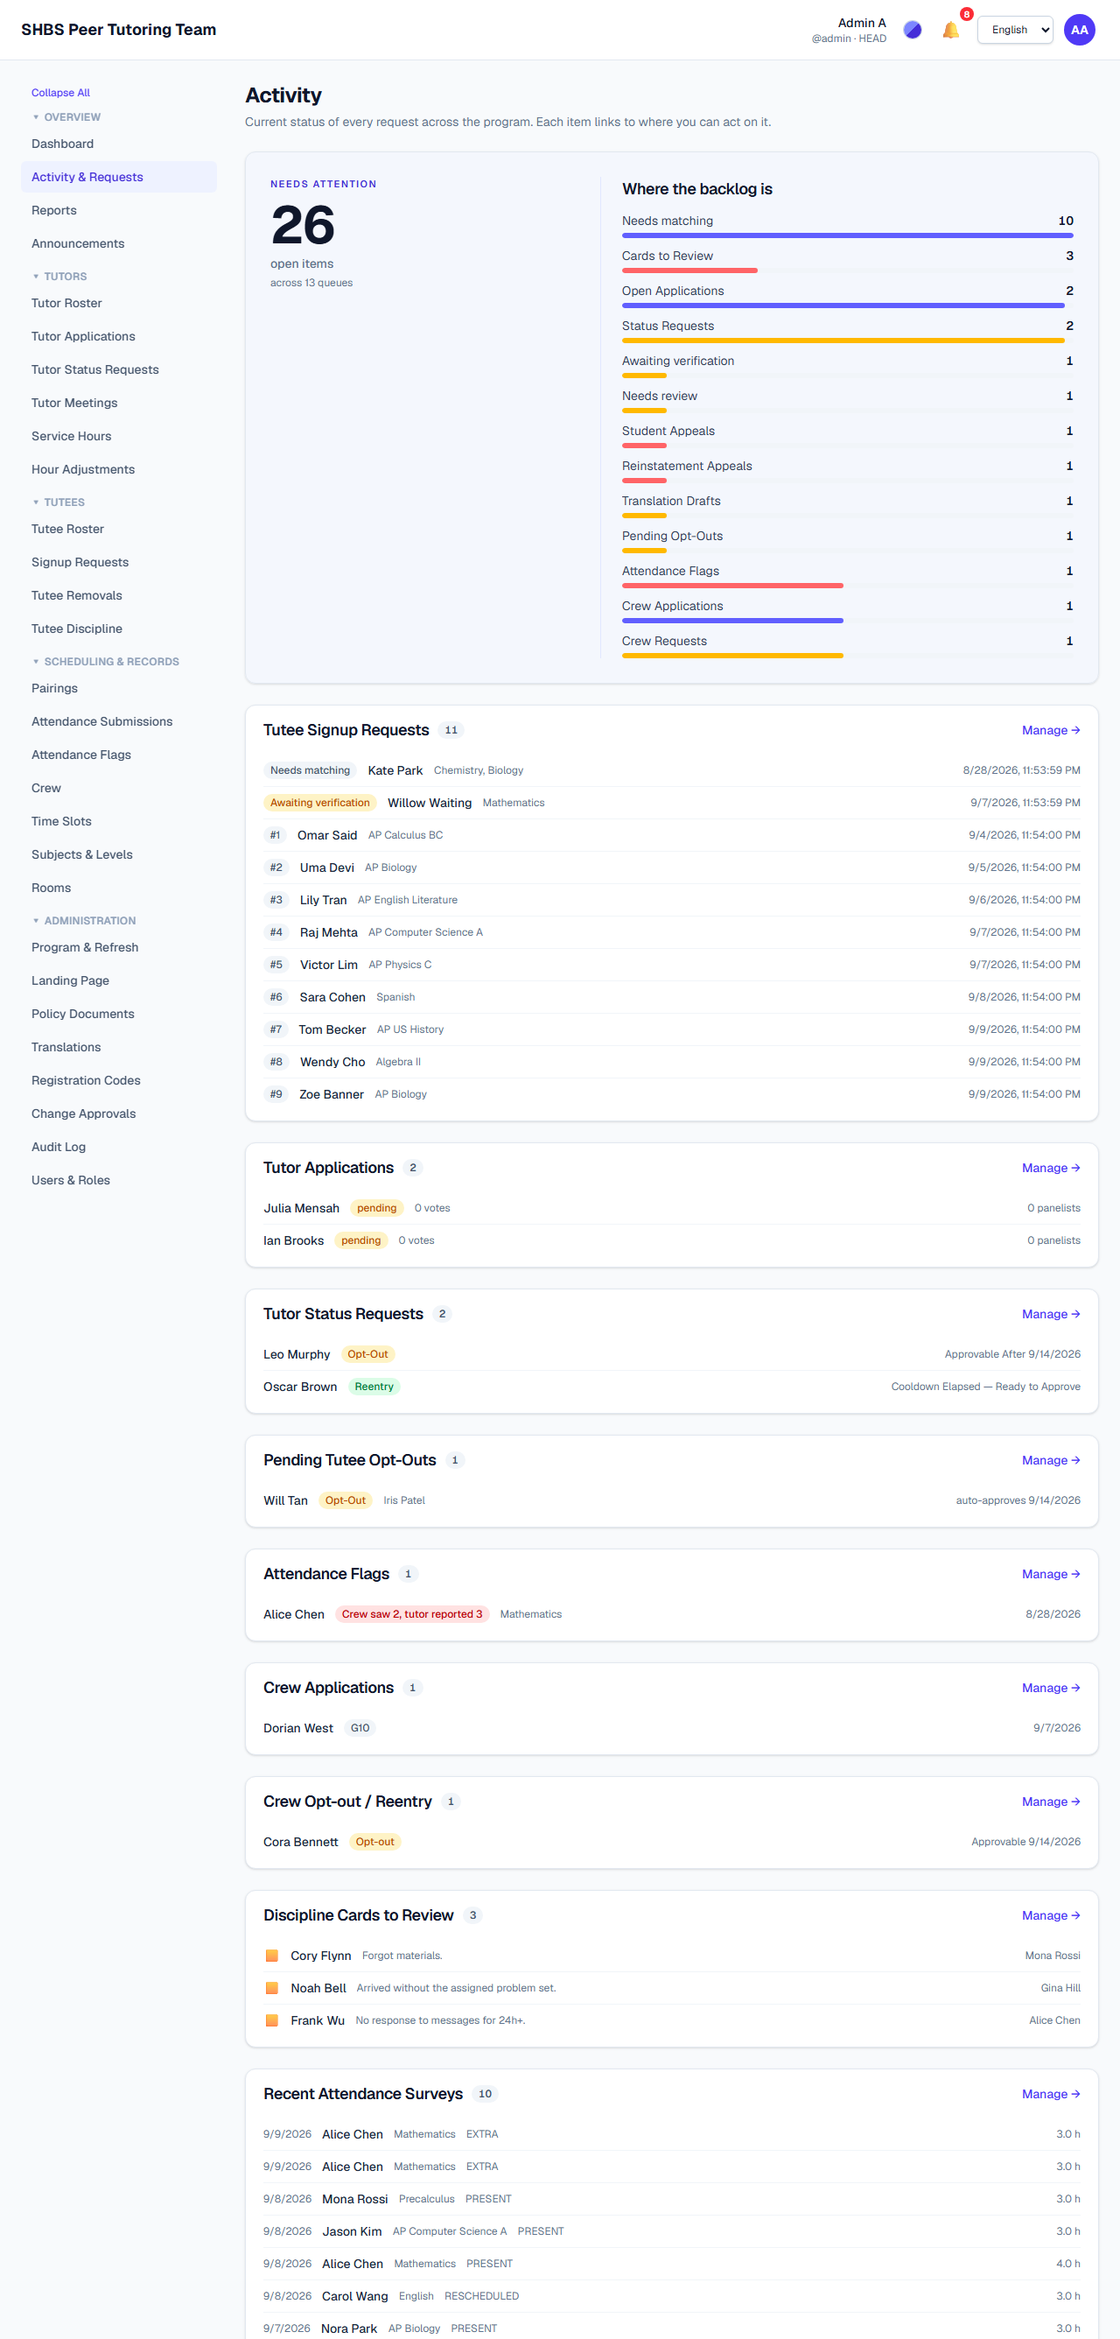
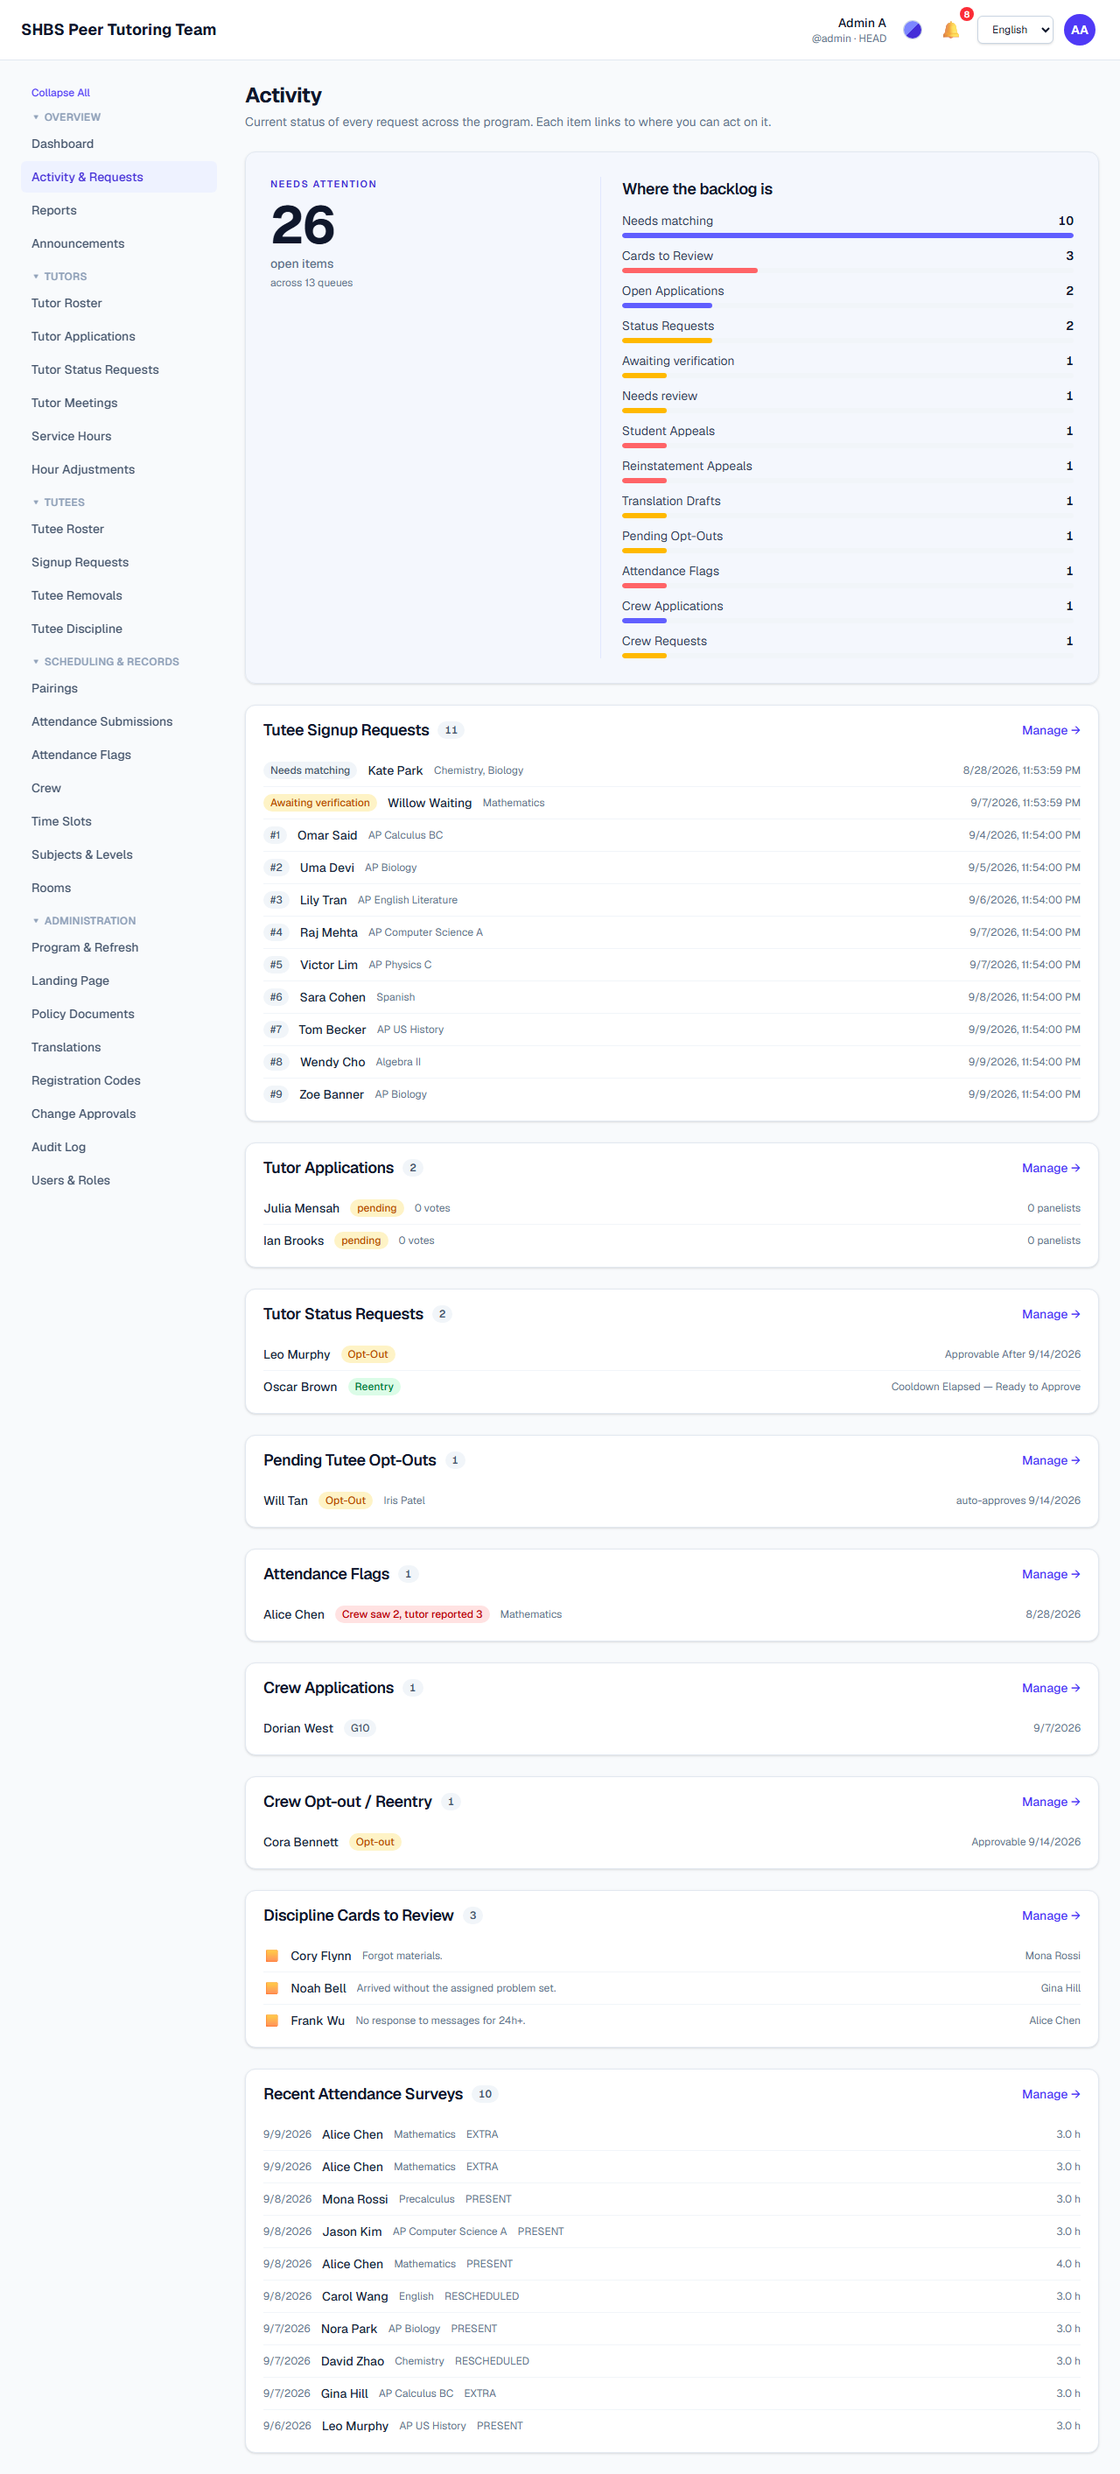
docs: record second review fixes and refreshed evidence

diff --git a/docs/reports/release-audit.html b/docs/reports/release-audit.html
@@ -11,8 +11,8 @@
 <a class="skip" href="#report">Skip to report</a>
 <header><a class="brand" href="technical-report.html">SHBS / PEER TUTORING</a><nav class="links" aria-label="Report navigation"><a href="#fixes">Fixes</a><a href="#workflows">Workflows</a><a href="#database">Database</a><a href="user-guide.html">Role guide</a><button type="button" onclick="window.print()">Print / PDF</button></nav></header>
 <main id="report">
-<div class="hero"><div class="eyebrow">Release rehearsal · 9–10 September 2026</div><h1>Release readiness,<br>checked end to end.</h1><span class="status" id="verdict">Reviewed workflows pass · local release candidate</span><p class="intro">The review follows participants from signup to service records, and organizers from incoming demand to reviewed decisions. Fixes are separated into focused pull requests; the local preview combines them.</p><p class="small">Baseline: <code>61985de0</code> after PRs 9–10. No deployment. Production email and approved school content remain launch setup.</p></div>
-<div class="metrics" aria-label="Validation summary"><div class="metric"><span class="number" id="tests">374</span><span class="caption">automated tests passed</span></div><div class="metric"><span class="number" id="requests">480</span><span class="caption">bounded load-test requests</span></div><div class="metric"><span class="number" id="errors">0</span><span class="caption">bounded load-sample failures</span></div><div class="metric"><span class="number">1</span><span class="caption">preview server + browser limit</span></div></div>
+<div class="hero"><div class="eyebrow">Release rehearsal · 9–10 September 2026</div><h1>Release readiness,<br>checked end to end.</h1><span class="status" id="verdict">Reviewed workflows pass · local release candidate</span><p class="intro">The review follows participants from signup to service records, and organizers from incoming demand to reviewed decisions. The focused fixes have been reviewed again; the refreshed preview includes their tested revisions. Follow the PR links for merge records.</p><p class="small">Baseline: <code>61985de0</code> after PRs 9–10. No deployment. Production email and approved school content remain launch setup.</p></div>
+<div class="metrics" aria-label="Validation summary"><div class="metric"><span class="number" id="tests">403</span><span class="caption">automated tests passed</span></div><div class="metric"><span class="number" id="requests">864</span><span class="caption">bounded load-test requests</span></div><div class="metric"><span class="number" id="errors">0</span><span class="caption">bounded load-sample failures</span></div><div class="metric"><span class="number">1</span><span class="caption">preview server + browser limit</span></div></div>
 
 <section id="fixes"><h2>What was missing, and what changed</h2><div class="table" tabindex="0" role="region" aria-label="Audit fixes"><table><thead><tr><th>Area</th><th>Before this review</th><th>Resolution and evidence</th><th>Change</th></tr></thead><tbody>
 <tr><td>Membership decisions</td><td>Competing submission, recall and approval could duplicate requests or overwrite a decision.</td><td>One member lock and transaction cover state, notification and audit. Stale decisions fail. Fourteen database regressions cover races and rollback.</td><td><a href="https://github.com/DupeisTaken/shbs-peer-tutoring-website/pull/11">PR #11</a></td></tr>
@@ -27,6 +27,8 @@
 <tr><td>Validation messages</td><td>Rejected form inputs could expose a serialized validation object.</td><td>Concise summaries retain structured field details and approval identifiers. Four transport regressions cover the error contract.</td><td><a href="https://github.com/DupeisTaken/shbs-peer-tutoring-website/pull/20">PR #20</a></td></tr>
 <tr><td>Translation conflicts</td><td>Approving an older proposal could overwrite text changed since submission.</td><td>Exact destination snapshots and shared transactions protect five translation types. Legacy proposals require explicit resubmission; metadata stays out of the review text.</td><td><a href="https://github.com/DupeisTaken/shbs-peer-tutoring-website/pull/21">PR #21</a></td></tr><tr><td>Room conflict feedback</td><td>Database safeguards rejected invalid bookings, but scheduling forms could surface low-level failures.</td><td>Shared scheduling transactions return clear conflicts for pairings, slot propagation and blackouts. Adjacent bookings remain valid; six API regressions supplement the existing database boundary.</td><td><a href="https://github.com/DupeisTaken/shbs-peer-tutoring-website/pull/22">PR #22</a></td></tr></tbody></table></div><p class="small">Two suspected integrity gaps were disproved: coordinator translation writes already pass through approval middleware, and database triggers already block room conflicts. The room change improves conflict messages and transaction coherence; it does not introduce the underlying guarantee.</p></section>
 
+<section id="second-review"><h2>Second review before merging</h2><p>Independent cross-review and a fresh combined check found six additional defects. Each correction stays in its original focused PR.</p><ul><li><a href="https://github.com/DupeisTaken/shbs-peer-tutoring-website/pull/13">Interview authority:</a> scheduling now locks the interview before checking the current chair; replacement races cannot authorize a former chair. Schedule changes and notifications roll back together.</li><li><a href="https://github.com/DupeisTaken/shbs-peer-tutoring-website/pull/15">Activity failures:</a> incomplete or failed queue requests show an actionable alert and an unknown total, never a false all-clear.</li><li><a href="https://github.com/DupeisTaken/shbs-peer-tutoring-website/pull/17">Appeal history:</a> each card carries its own appeal-existence result, independent of the displayed history page.</li><li><a href="https://github.com/DupeisTaken/shbs-peer-tutoring-website/pull/18">Pagination ties:</a> an ID tie-breaker keeps same-timestamp interview records stable across pages.</li><li><a href="https://github.com/DupeisTaken/shbs-peer-tutoring-website/pull/22">Test isolation:</a> destructive room fixtures fail closed unless the target is an explicit local test database; connection overrides are rejected.</li><li><a href="https://github.com/DupeisTaken/shbs-peer-tutoring-website/pull/24">Container publication:</a> newer runs cancel stale work, publication is limited to main, and a current-main SHA guard rejects old reruns before publishing.</li></ul><p class="small">Translation documentation now distinguishes UI-string language validation from the existing ability to edit retained landing translations. Shared CMS and scheduling imports were reconciled when combining overlapping branches. CI also caught a stale technical-guide HTML edition; regeneration restored the documentation gate.</p></section>
+
 <section id="workflows"><h2>Can each role complete its work?</h2><p>Page inspection and completed actions are reported separately. Expand the evidence for the exact scope; passing a route load alone does not prove a workflow.</p><div id="workflow-results" class="note">Completed paths include student onboarding and assignment, feedback and private messaging, crew patrol, appeal and withdrawal review, tutor attendance and meeting excuses, and recruitment through verified account creation and policy consent.</div>
 <details><summary>Participant walkthrough evidence</summary><div id="participant-evidence"><div class="table"><table><thead><tr><th>Role</th><th>Completed through the UI</th><th>Evidence</th></tr></thead><tbody>
 <tr><td>Student</td><td>Survey → email link → password → sign-in → availability edit → assignment. Saved feedback persists after reload; messages remain private. A fresh card appeal appears in the staff pending queue and disables another submission.</td><td>Baseline walkthrough + fresh demo</td></tr>
@@ -37,13 +39,13 @@
 <tr><td>Translator</td><td>Authorized editor loads; a fresh proposal is saved and approved. A legacy draft is rejected with explicit resubmission guidance instead of overwriting content.</td><td>Final UI walkthrough + destination regressions</td></tr><tr><td>Viewer</td><td>Verification and password creation; read-only management navigation.</td><td>Baseline walkthrough</td></tr>
 </tbody></table></div></div></details>
 <details><summary>Organizer walkthrough evidence</summary><div id="organizer-evidence"><p>HEAD and coordinator navigation covered all listed management destinations: activity, reports, announcements, tutor/application/membership/meeting/hour tools, student intake/discipline/removals, pairings, attendance/flags, crew, rooms/slots/subjects, program settings, page/policy/translation tools, codes, approvals, audit and users.</p><p>Actual decisions included a student card appeal, quarter withdrawal and coordinator interview proposal. Database verification confirmed <strong>Carol remained the chair</strong> while HEAD was the approving reviewer; Frank had <strong>zero remaining assignments</strong> and a quarter block; the recruit became an active, verified tutor with policy consent.</p><p>Role-specific data visibility, stale/concurrent writes and negative inputs are additionally exercised by the automated suite. Final integrated visual checks cover the newly changed tracking and permission pages.</p></div></details>
-<details><summary>Performance and resource limits</summary><div><p id="performance-evidence">Baseline: 96 paced reads, zero failures, worst-stage p95 74 ms. Final standalone build: 384 paced page/protected-API reads at concurrency 1, 2, 4 and 6, zero HTTP or tRPC failures, worst-stage p95 62 ms. Final server working set stayed at or below 375 MB, with at least 3930 MB free memory. The final build retained at least 2312 MB free.</p><p>App revision <code>af943ff2</code>: <code>npm run check</code> passed with 16 existing warnings; <code>npm test -- --maxWorkers=1</code> passed 374 tests in 46 files. Documentation checks and five documentation tests passed. The production build used webpack and two workers; the running preview uses the standalone output. All functional PR heads passed their GitHub verification workflows.</p><p>One PostgreSQL cluster uses 32 MB shared buffers and 25 connections. The application has a 1.5 GB heap cap. Load stops below 1.5 GB free memory or above 1.2 GB server working set. Builds, test suites and browser sessions run serially. This local sample detects regressions; it does not certify production capacity, long-duration endurance or every possible input.</p></div></details>
+<details><summary>Performance and resource limits</summary><div><p id="performance-evidence">Earlier audit: 480 paced reads, zero failures. Second-review build: another 384 paced page/protected-API reads at concurrency 1, 2, 4 and 6, zero HTTP or tRPC failures, worst-stage p95 70 ms. Final server working set stayed at or below 378 MB, with at least 4488 MB free memory. The refreshed build retained at least 2964 MB free.</p><p>App revision <code>4b6f640</code>: <code>npm run check</code> passed with 16 existing warnings; <code>npm test -- --maxWorkers=1</code> passed 403 tests in 48 files. Documentation checks and six documentation/workflow contract tests passed. The production build used webpack and two workers; the running preview uses the standalone output. Each PR must pass verification at its reviewed head before merging. The refreshed browser check also simulated an Activity request failure, checked the disabled appeal control, and recorded zero page errors and no mobile overflow.</p><p>One PostgreSQL cluster uses 32 MB shared buffers and 25 connections. The application has a 1.5 GB heap cap. Load stops below 1.5 GB free memory or above 1.2 GB server working set. Builds, test suites and browser sessions run serially. This local sample detects regressions; it does not certify production capacity, long-duration endurance or every possible input.</p></div></details>
 <details><summary>Visual evidence</summary><div id="screenshots"><div class="grid"><figure><a href="audit-assets/activity-desktop.png"><img loading="lazy" src="audit-assets/activity-desktop.png" alt="Administrator activity page with exact queue totals and direct review links"></a><figcaption>Administrator: collective pending-work queues.</figcaption></figure><figure><a href="audit-assets/student-desktop.png"><img loading="lazy" src="audit-assets/student-desktop.png" alt="Student portal showing assignments, history and a submitted appeal"></a><figcaption>Student: assignments, records and appeal receipt.</figcaption></figure></div><figure style="max-width:390px;margin-top:20px"><a href="audit-assets/activity-mobile.png"><img loading="lazy" src="audit-assets/activity-mobile.png" alt="Mobile administrator activity page without horizontal overflow"></a><figcaption>390-pixel viewport; no horizontal page overflow.</figcaption></figure></div></details>
 </section>
 
 <section id="database"><h2>A database that supports the program</h2><div class="grid"><div class="card"><h3>Scaffolded now</h3><p>Assigned and waiting students; unverified demand; recalled, withdrawn and disqualified requests; exact policy snapshots; feedback, appeals, messages and calendar overrides; tutor and crew lifecycle; qualified interview panels; future meetings; current and historical hours.</p><p><a href="https://github.com/DupeisTaken/shbs-peer-tutoring-website/blob/codex/release-audit-demo/docs/demo-database.md">Accounts, setup and data-model notes →</a></p></div><div class="card"><h3>Keep the important distinctions</h3><p>Login identity, participation history, tutor identity, crew membership and translation capability are separate. Historical ownership and signed policy text survive later changes. Survey priority and terminal states stay protected.</p><p>The fresh demo has zero active room-booking overlaps and zero blackout collisions. Existing histories were retained during the walkthrough.</p><p>Session rounding remains unchanged: 35 min → 1 h, 70 min → 1 h, 71 min → 1.5 h before the student multiplier. Interviews use recorded minutes ÷ 60.</p></div></div>
 <details><summary>Before extending the schema</summary><div><ul><li>Inventory duplicate pending membership requests before adding a uniqueness constraint; preserve evidence and resolve each explicitly.</li><li>Define retention and orphan checks before account deletion or imports. Blanket cascading foreign keys would erase historical actor evidence.</li><li>Keep one active term and one HEAD; verify these invariants after imports and backup restoration.</li><li>Availability remains advisory. Clearing the default slot retains the copied meeting time; it does not cancel the pairing. These mechanics were preserved. Current tracking counts submitted records and pending requests. Expected-session and patrol ledgers need operational term dates, holidays, cancellations, deadlines and assigned patrol duties before missing-work alerts can be reliable.</li><li>For larger usage, measure query plans before adding indexes; paginate growing lists and move large media to object storage.</li><li>A durable email outbox and scheduled expired-token cleanup improve operations. Multi-school hosting needs tenant-scoped identities, permissions and unique keys throughout.</li></ul></div></details></section>
 
-<section id="launch"><h2>Ready locally; launch setup stays explicit</h2><div class="grid"><div class="card"><h3>Try the combined preview</h3><p><a href="https://localhost:3443">Open the test website</a> · <a href="https://localhost:3443/__audit/mail">Local email inbox</a></p><p>HEAD: <code>admin</code><br>Student: <code>emma@example.test</code><br>Tutor: <code>alice@example.edu</code><br>Coordinator: <code>carol@example.edu</code><br>Demo password: <code>Password123!</code></p><p class="small">Local self-signed HTTPS. Mail stays on this machine. Test credentials are synthetic and must never be used for production.</p></div><div class="card"><h3>Before a real launch</h3><ol><li>Review and merge the focused PRs; the local preview contains their combined code.</li><li>Configure the chosen host/domain, real SMTP, production secrets and backups; test restoration and delivery.</li><li>Approve school-specific policies/content and publish them through the application.</li></ol><p class="small">These remain intentionally deferred under your earlier instructions. No deployment or real email delivery was performed.</p></div></div></section>
+<section id="launch"><h2>Ready locally; launch setup stays explicit</h2><div class="grid"><div class="card"><h3>Try the combined preview</h3><p><a href="https://localhost:3443">Open the test website</a> · <a href="https://localhost:3443/__audit/mail">Local email inbox</a></p><p>HEAD: <code>admin</code><br>Student: <code>emma@example.test</code><br>Tutor: <code>alice@example.edu</code><br>Coordinator: <code>carol@example.edu</code><br>Demo password: <code>Password123!</code></p><p class="small">Local self-signed HTTPS. Mail stays on this machine. Test credentials are synthetic and must never be used for production.</p></div><div class="card"><h3>Before a real launch</h3><ol><li>Use the reviewed main revision and its passing verification run; the local preview contains the same application changes.</li><li>Configure the chosen host/domain, real SMTP, production secrets and backups; test restoration and delivery.</li><li>Approve school-specific policies/content and publish them through the application.</li></ol><p class="small">These remain intentionally deferred under your earlier instructions. No deployment or real email delivery was performed.</p></div></div></section>
 </main><footer>SHBS Peer Tutoring · Release audit · <a href="technical-report.html">Technical report</a> · <a href="user-guide.html">Role guide</a><br>Authored HTML; all assets are local. Repository links require internet access. Expand evidence sections before printing.</footer>
 </body></html>
